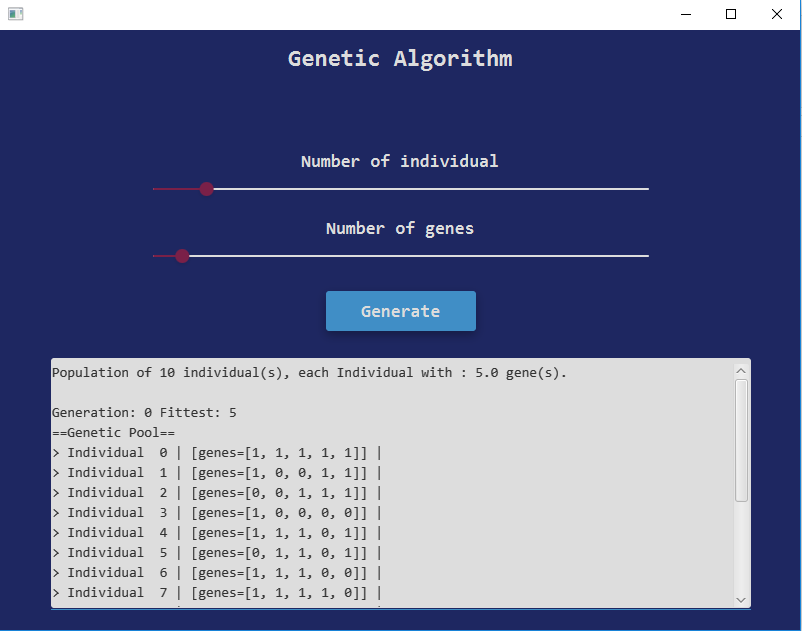
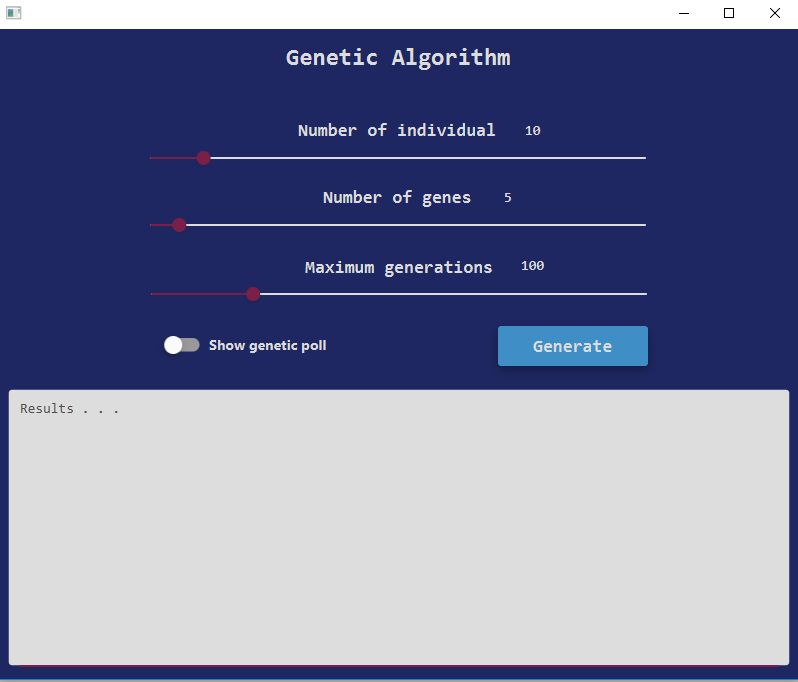
V1.1
Added slider to specify the maximum number of generations and a toggle button to chose whether to show the genetic poll or not

Changed region(s): [[0.0, 0.0, 1.0, 1.0]]

diff --git a/dist/GeneticAlgorithm.html b/dist/GeneticAlgorithm.html
@@ -4,7 +4,7 @@
     function launchApplication(jnlpfile) {
         dtjava.launch(            {
                 url : 'GeneticAlgorithm.jnlp',
[2 lines of base64/hex data omitted]
             },
             {
                 javafx : '8.0+'
@@ -24,7 +24,7 @@
                 placeholder : 'javafx-app-placeholder',
                 width : '800',
                 height : '600',
[2 lines of base64/hex data omitted]
             },
             {
                 javafx : '8.0+'

diff --git a/src/GA/SimpleDemoController.java b/src/GA/SimpleDemoController.java
@@ -6,32 +6,40 @@
 package GA;
 
 import Include.Individual;
+import Include.Init;
 import Include.Population;
+import Include.SpecialAlert;
 import com.jfoenix.controls.JFXButton;
 import com.jfoenix.controls.JFXSlider;
 import com.jfoenix.controls.JFXTextArea;
+import com.jfoenix.controls.JFXToggleButton;
 import java.net.URL;
+import java.text.NumberFormat;
 import java.util.Random;
 import java.util.ResourceBundle;
 import javafx.fxml.FXML;
 import javafx.fxml.Initializable;
+import javafx.scene.control.Alert;
 import javafx.scene.control.Label;
 
 /**
  *
  * @author user
  */
-public class SimpleDemoController implements Initializable {
+public class SimpleDemoController implements Initializable,Init {
     
     @FXML public JFXSlider numberOfGenes;
-    @FXML public JFXSlider numberOfIndividuals;
+    @FXML public JFXSlider numberOfIndividuals,genSlider;
     @FXML public JFXButton generator;
     @FXML public JFXTextArea result;
-    @FXML public Label nbrIndividuals,nbrGenes;
+    @FXML public Label nbrIndividuals,nbrGenes,genCount;
+    @FXML public JFXToggleButton showPoll;
     
     private Population population;
     private Individual fittest,secondFittest;
     private int generationCount;
+    private final SpecialAlert alert = new SpecialAlert();
+    private static int nbrTries;
 
 	//Selection
 	void selection() {
@@ -110,22 +118,17 @@ public class SimpleDemoController implements Initializable {
             
                 String geneticPool = "";
             
-		geneticPool += "\n==Genetic Pool==\n";
+		geneticPool += "\n=============== Genetic Pool ================\n";
 		int increment=0;
 		for (Individual individual:individuals) {
 			geneticPool += "> Individual  "+increment+" | "+ individual.genesToString()+" |\n";
 			increment++;
 		}
-		geneticPool += "\n================\n";
+		geneticPool += "\n================================\n";
                 
                 return geneticPool;
 	}    
-    
-    
-        /*public SimpleDemoController() {
-		this.population = new Population((int)numberOfIndividuals.getValue(), (int)numberOfGenes.getValue());
-		this.generationCount = 0;
-    }  */  
+
     
         public void generateResults(){
             
@@ -134,19 +137,24 @@ public class SimpleDemoController implements Initializable {
         population = new Population((int)numberOfIndividuals.getValue(), (int)numberOfGenes.getValue());
         generationCount = 0;
         
-		result.appendText("Population of " + population.getPopSize() + " individual(s), each Individual with : " + numberOfGenes.getValue() + " gene(s).\n");
+        nbrTries++;
+		result.appendText("Population of " + population.getPopSize() + " individual(s), each Individual with : " + (int)numberOfGenes.getValue() + " gene(s).\n");
 
 		//Calculate fitness of each individual
 		population.calculateFitness();
 
 		result.appendText("\nGeneration: " + generationCount + " Fittest: " + population.getFittestScore());
-		//show genetic pool
-		result.appendText(showGeneticPool(population.getIndividuals()));
+                
+                if(showPoll.isSelected()){
+                    //show genetic pool
+                    result.appendText(showGeneticPool(population.getIndividuals()));
+                }
 
 		//While population gets an individual with maximum fitness
-		while (population.getFittestScore() < numberOfGenes.getValue()) {
+		while (population.getFittestScore() < numberOfGenes.getValue() && generationCount < (int)genSlider.getValue()){
+                    
 			++generationCount;
-
+                        
 			//Do selection
 			selection();
 
@@ -167,31 +175,59 @@ public class SimpleDemoController implements Initializable {
 			population.calculateFitness();
 
 			result.appendText("\nGeneration: " + generationCount + " Fittest score: " + population.getFittestScore());
-            
-			//show genetic pool
-			result.appendText(showGeneticPool(population.getIndividuals()));
+                        
+                        if(showPoll.isSelected()){
+                            //show genetic pool
+                            result.appendText(showGeneticPool(population.getIndividuals()));
+                        }
 		}
+                
+                if(generationCount == (int)genSlider.getValue()){
+                    
+                    
+                    
+                    if(nbrTries >= 10){
+                        alert.show(MAX_GEN_ERROR, MAX_GEN_ERROR_MESSAGE, Alert.AlertType.ERROR, false);
+                        nbrTries = 0;
+                    }
+                    else
+                        generateResults();
+                }
+                else{
+                    
+                    result.appendText("\n\n> Solution found in generation " + generationCount);
+                    result.appendText("\n> Index of winner Individual: "+population.getFittestIndex());
+                    result.appendText("\n> Fitness: "+population.getFittestScore());
+                    result.appendText("\n> Genes: ");
 
-		result.appendText("\nSolution found in generation " + generationCount);
-		result.appendText("\nIndex of winner Individual: "+population.getFittestIndex());
-		result.appendText("\nFitness: "+population.getFittestScore());
-		result.appendText("\nGenes: ");
-		for (int i = 0; i < numberOfGenes.getValue(); i++) {
-			result.appendText(String.valueOf(population.selectFittest().getGenes()[i]));
-		}
+                    for (int i = 0; i < numberOfGenes.getValue(); i++) {
+                            result.appendText(String.valueOf(population.selectFittest().getGenes()[i]));
+                    }
+                    
+                    result.appendText("\n> Number of tries : " + nbrTries);
+                    
+                    nbrTries = 0;
+                    
+                }
 
         
     }
+        
+        public void initSlider(JFXSlider slider, Label sliderLabel){
+            
+            slider.valueProperty().addListener((obs,oldVal,newVal)->{
+                slider.setValue(newVal.intValue());
+            });
+
+            sliderLabel.textProperty().bindBidirectional(slider.valueProperty(), NumberFormat.getIntegerInstance());            
+        }
     
     @Override
     public void initialize(URL url, ResourceBundle rb) {
         
-        numberOfGenes.valueProperty().addListener((obs,oldVal,newVal)->{
-            numberOfGenes.setValue(newVal.intValue());
-        });
-        numberOfIndividuals.valueProperty().addListener((obs,oldVal,newVal)->{
-            numberOfIndividuals.setValue(newVal.intValue());
-        });
+        initSlider(numberOfGenes, nbrGenes);
+        initSlider(numberOfIndividuals, nbrIndividuals);
+        initSlider(genSlider, genCount);      
             
         generator.setOnAction(Action -> {
             generateResults();

diff --git a/src/Include/SpecialAlert.java b/src/Include/SpecialAlert.java
@@ -1,0 +1,66 @@
+/*
+ * To change this license header, choose License Headers in Project Properties.
+ * To change this template file, choose Tools | Templates
+ * and open the template in the editor.
+ */
+package Include;
+
+import java.io.PrintWriter;
+import java.io.StringWriter;
+import javafx.scene.control.Alert;
+import javafx.scene.control.Alert.AlertType;
+import javafx.scene.control.Label;
+import javafx.scene.control.TextArea;
+import javafx.scene.layout.GridPane;
+import javafx.scene.layout.Priority;
+
+/*
+ *
+ * @author med
+ */
+
+public class SpecialAlert {
+    
+    Alert alert = new Alert(AlertType.NONE);
+
+    public void show(String title, String message, AlertType alertType,boolean isExpandable) {
+        alert.setTitle(title);
+        alert.setHeaderText(null);
+        alert.setContentText(message);
+        alert.setAlertType(alertType);
+        alert.showAndWait();
+        
+        if(isExpandable){
+        
+        Exception ex = new Exception(message);
+
+        // Create expandable Exception.
+        StringWriter sw = new StringWriter();
+        PrintWriter pw = new PrintWriter(sw);
+        ex.printStackTrace(pw);
+        String exceptionText = sw.toString();
+
+        Label label = new Label("ERROR STACKTRACE :");
+
+        TextArea textArea = new TextArea(exceptionText);
+        textArea.setEditable(false);
+        textArea.setWrapText(true);
+
+        textArea.setMaxWidth(Double.MAX_VALUE);
+        textArea.setMaxHeight(Double.MAX_VALUE);
+        GridPane.setVgrow(textArea, Priority.ALWAYS);
+        GridPane.setHgrow(textArea, Priority.ALWAYS);
+
+        GridPane expContent = new GridPane();
+        expContent.setMaxWidth(Double.MAX_VALUE);
+        expContent.add(label, 0, 0);
+        expContent.add(textArea, 0, 1);
+
+        // Set expandable Exception into the dialog pane.
+        alert.getDialogPane().setExpandableContent(expContent);
+        }        
+
+    }
+}    
+    
+

diff --git a/src/Include/Init.java b/src/Include/Init.java
@@ -1,0 +1,18 @@
+/*
+ * To change this license header, choose License Headers in Project Properties.
+ * To change this template file, choose Tools | Templates
+ * and open the template in the editor.
+ */
+package Include;
+
+/**
+ *
+ * @author user
+ */
+public interface Init {
+    
+    String MAX_GEN_ERROR = "Maximum generations !";
+    
+    String MAX_GEN_ERROR_MESSAGE = "The number of maximum generations specified was reached before finding a solution ! Try another set of parameters" ;
+    
+}
